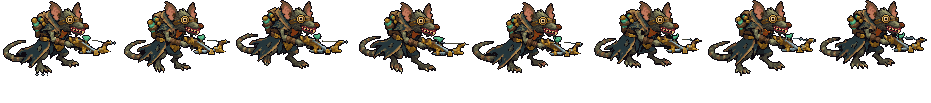
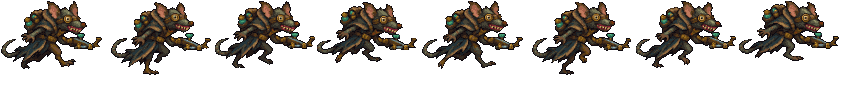
图奇的跑步换成 Codex 重画的那版，黑边理干净（等用户看，还没装）
用户「老鼠的跑步姿势有点怪 让codex帮忙重做一下」「codex交付了 你需要把不干净的黑边都处理了」。
Codex 正好画在模板的 8 像素网格上、只用设计图的颜色，read_twitch_run.py 逐格读回。设计图外缘 81% 是近黑描边，
Codex 这 8 帧只有三成，其余拿深棕、深灰、暗棕冒充，还挂着浅色毛边、碎点和毛刺：最外一圈那几种颜色换成描边色，
毛边、碎点、毛刺删掉，身子里面不改；描边厚度交给 thin_outline.py。rig_twitch_hd.py 有这 8 帧就拿它们当 run
（TWITCH_RIG_RUN=1 还是原来那版）。只换 run / hd_run / lo_run，走的是验证过的那条（拿旧帧走一遍，33 组和提交逐像素一致）。
弩比设计图短约 10 格，等用户定。

Changed region(s): [[0.0, 0.0, 1.0, 0.7576]]

diff --git a/tools/art/read_twitch_run.py b/tools/art/read_twitch_run.py
@@ -1,0 +1,173 @@
+#!/usr/bin/env python3
+"""图奇跑步的 Codex 重画读回来（用户 2026-11-22：「老鼠的跑步姿势有点怪 让codex帮忙重做一下」「codex交付了 你需要把不干净的
+黑边都处理了」）。
+
+Codex 交的是 assets/source/twitch/codex_run/run_1.png、run_2.png（raw.png 是它生成的原图）：和模板一样 2048 x 1920，2 x 2 格，
+每格 1024 x 960，每个 8 x 8 块都是一个颜色、对齐模板的网格，透明度只有 0 / 255，颜色都是设计图里的。所以这里不用猜网格：
+
+1. 每格每 8 像素取一个点，得到 128 x 120 格的一帧（设计图的一格）；
+2. 每格的颜色换成设计图（assets/source/twitch/hd/design.png）里最接近的那个（这次一格都不用换）；
+3. 放进 rig_twitch_hd.py 的画布：模板的十字（第 64 列）是站位点，地面线（第 85 行）是脚底下面那一行，所以格子 (x, y)
+   放到画布 (x - 64 + CX, y - 85 + GY)；
+4. 黑边理干净（clean()，用户「你需要把不干净的黑边都处理了」）：设计图外缘 81% 是近黑描边 (14, 10, 16)，Codex 这 8 帧外缘
+   只有三成是，其余拿深棕 (35, 24, 22)、深灰 (27, 33, 36)、暗棕 (53, 35, 24) 冒充描边，还挂着一格厚的浅棕毛边、几个碎点
+   和毛刺，看着发脏。只动边上，身子里面的画不改：
+   - 和身子不连着的碎点（SPECK 格以下）删掉；
+   - 最外一圈（挨着透明）的 DARK 几种颜色换成描边色；
+   - 挂在描边外面的一格浅色毛边（往里只挨着描边、不挨着身子）删掉；
+   - 描边上支出来的毛刺（8 邻里不透明的不到 2 格）删掉，删到没有为止。
+   描边多厚交给后面的 thin_outline.py --hero twitch（图奇的高清帧描边统一补到 2 格）；
+5. 写 assets/source/twitch/codex_run/frames/run_<1..8>.png（画布大小）。rig_twitch_hd.py 看到这 8 张就拿它们当 run
+   （TWITCH_RIG_RUN=1 还是原来那版）。
+
+    python tools/art/read_twitch_run.py [--preview DIR]
+"""
+import argparse
+import os
+import sys
+
+import numpy as np
+from PIL import Image
+from scipy import ndimage
+
+HERE = os.path.dirname(os.path.abspath(__file__))
+ROOT = os.path.dirname(os.path.dirname(HERE))
+sys.path.insert(0, HERE)
+SRC = os.path.join(ROOT, "assets", "source", "twitch", "codex_run")
+OUT = os.path.join(SRC, "frames")
+DESIGN = os.path.join(ROOT, "assets", "source", "twitch", "hd", "design.png")
+SQ = 8
+CELL = (1024, 960)
+PIVOT = (64, 60)           # 模板十字所在的格
+GROUND = PIVOT[1] + 25     # 模板地面线所在的格（这一行往上是脚）
+OUTLINE = (14, 10, 16)     # 设计图的描边色（casts_twitch_hd.OUTLINE）
+DARK = [(35, 24, 22), (27, 33, 36), (53, 35, 24)]   # Codex 在最外一圈冒充描边的颜色
+SPECK = 12                 # 和身子不连着、这么多格以下的一块是碎点（casts_twitch_hd.SPECK）
+FOUR = np.array([[0, 1, 0], [1, 0, 1], [0, 1, 0]])
+EIGHT = np.array([[1, 1, 1], [1, 0, 1], [1, 1, 1]])
+
+
+def count(mask, kernel):
+    return ndimage.convolve(mask.astype(int), kernel, mode="constant")
+
+
+def clean(f):
+    """黑边理干净（见文件头第 4 步）。返回（新帧，{删的碎点, 换成描边, 删的毛边, 删的毛刺}）。"""
+    a = f.copy()
+    n = {"speck": 0, "dark": 0, "fringe": 0, "spur": 0}
+    op = a[..., 3] > 0
+    lab, k = ndimage.label(op, structure=np.ones((3, 3)))
+    if k > 1:
+        sz = ndimage.sum(op, lab, range(1, k + 1))
+        main = 1 + int(np.argmax(sz))
+        for i in range(1, k + 1):
+            if i != main and sz[i - 1] <= SPECK:
+                a[lab == i] = 0
+                n["speck"] += int(sz[i - 1])
+    op = a[..., 3] > 0
+    edge = op & (count(~op, FOUR) > 0)
+    rgb = a[..., :3].astype(int)
+    dark = np.zeros(op.shape, bool)
+    for c in DARK:
+        dark |= (rgb == np.array(c)).all(-1)
+    m = edge & dark
+    a[m, :3] = OUTLINE
+    n["dark"] = int(m.sum())
+    for _ in range(4):
+        op = a[..., 3] > 0
+        isout = op & (a[..., :3].astype(int) == np.array(OUTLINE)).all(-1)
+        body = op & ~isout
+        edge = op & (count(~op, FOUR) > 0)
+        fringe = edge & body & (count(body, FOUR) == 0) & (count(isout, FOUR) > 0)
+        spur = isout & (count(op, EIGHT) < 2)
+        if not (fringe.any() or spur.any()):
+            break
+        a[fringe | spur] = 0
+        n["fringe"] += int(fringe.sum())
+        n["spur"] += int(spur.sum())
+    return a, n
+
+
+def palette():
+    d = np.array(Image.open(DESIGN).convert("RGBA"))
+    return np.unique(d[d[..., 3] > 0][:, :3], axis=0).astype(int)
+
+
+def cells():
+    """8 帧，每帧 120 x 128 格（RGBA）。先确认每个 8 x 8 块都是一个颜色。"""
+    out = []
+    for name in ("run_1.png", "run_2.png"):
+        a = np.array(Image.open(os.path.join(SRC, name)).convert("RGBA"))
+        H, W = a.shape[:2]
+        b = a.reshape(H // SQ, SQ, W // SQ, SQ, 4)
+        if not (b == b[:, :1, :, :1]).all():
+            sys.exit(f"{name}: 有不是一个颜色的 8 x 8 块，网格对不上")
+        g = a[::SQ, ::SQ]
+        ch, cw = CELL[1] // SQ, CELL[0] // SQ
+        for k in range(4):
+            y0, x0 = (k // 2) * ch, (k % 2) * cw
+            out.append(g[y0:y0 + ch, x0:x0 + cw].copy())
+    return out
+
+
+def snap(f, pal):
+    """不透明的格换成设计图里最近的颜色；返回（新帧，换掉的格数）。"""
+    out = np.zeros_like(f)
+    op = f[..., 3] > 0
+    cols = f[op][:, :3].astype(int)
+    d2 = ((cols[:, None, :] - pal[None, :, :]) ** 2).sum(-1)
+    new = pal[d2.argmin(1)]
+    out[op, :3] = new
+    out[op, 3] = 255
+    return out, int((new != cols).any(1).sum())
+
+
+def rig():
+    os.environ["TWITCH_RIG_RUN"] = "1"
+    import rig_twitch_hd as RT
+    return RT.make_rig(RT.Design())
+
+
+def main():
+    ap = argparse.ArgumentParser()
+    ap.add_argument("--preview")
+    ap.add_argument("--raw", action="store_true", help="不理黑边（Codex 原样，比对用）")
+    a = ap.parse_args()
+    R = rig()
+    pal = palette()
+    os.makedirs(OUT, exist_ok=True)
+    out = []
+    for k, f in enumerate(cells()):
+        s, moved = snap(f, pal)
+        if not a.raw:
+            s, n = clean(s)
+            print(f"frame {k + 1} 黑边: 碎点 {n['speck']} 格, 换成描边 {n['dark']} 格, 毛边 {n['fringe']} 格, 毛刺 {n['spur']} 格")
+        can = R.canvas()
+        ys, xs = np.nonzero(s[..., 3] > 0)
+        ty, tx = ys - GROUND + R.GY, xs - PIVOT[0] + R.CX
+        ok = (ty >= 0) & (ty < can.shape[0]) & (tx >= 0) & (tx < can.shape[1])
+        if not ok.all():
+            sys.exit(f"frame {k + 1}: {int((~ok).sum())} 格落到画布外")
+        can[ty, tx] = s[ys, xs]
+        out.append(can)
+        Image.fromarray(can).save(os.path.join(OUT, f"run_{k + 1}.png"))
+        print(f"frame {k + 1}: {len(ys)} 格, 最低一行 {ys.max()} (地面线 {GROUND}), 列 {xs.min()}..{xs.max()}, 换色 {moved} 格")
+    if a.preview:
+        os.makedirs(a.preview, exist_ok=True)
+        x0 = min(np.nonzero(c[..., 3] > 0)[1].min() for c in out) - 2
+        x1 = max(np.nonzero(c[..., 3] > 0)[1].max() for c in out) + 3
+        y0 = min(np.nonzero(c[..., 3] > 0)[0].min() for c in out) - 2
+        y1 = R.GY + 2
+        tiles = [c[y0:y1, x0:x1] for c in out]
+        z = 3
+        W = sum(t.shape[1] + 2 for t in tiles)
+        im = Image.new("RGBA", (W, y1 - y0), (96, 112, 96, 255))
+        x = 0
+        for t in tiles:
+            im.alpha_composite(Image.fromarray(t), (x, 0))
+            x += t.shape[1] + 2
+        im.resize((W * z, (y1 - y0) * z), Image.NEAREST).save(os.path.join(a.preview, "codex_run_read.png"))
+
+
+if __name__ == "__main__":
+    main()

diff --git a/tools/art/rig_twitch_hd.py b/tools/art/rig_twitch_hd.py
@@ -260,6 +260,11 @@ def frames(rig):
         for k, ref in TAIL_FROM.get(tag, {}).items():
             cans[k] = CT.despeck(same_tail(rig, cans[k], cans[ref]), CT.SPECK)   # (the old tail's last specks)
         fr = [cans[k].copy() for k in order]
+        # 2026-11-22 用户「老鼠的跑步姿势有点怪 让codex帮忙重做一下」：Codex 照英雄联盟跑步重画的 8 帧
+        # （tools/art/read_twitch_run.py 读回、理过黑边的画布）在就用它们；TWITCH_RIG_RUN=1 还是原来那版
+        codex = [os.path.join(CT.HD, "..", "codex_run", "frames", f"run_{k}.png") for k in range(1, 9)]
+        if tag == "run" and all(os.path.isfile(f) for f in codex) and not os.environ.get("TWITCH_RIG_RUN"):
+            fr = [np.array(Image.open(f).convert("RGBA")) for f in codex]
         if len(fr) != n:
             sys.exit(f"{tag}: {len(fr)} frames for the sheet's {n}")
         if tag == "hit":
